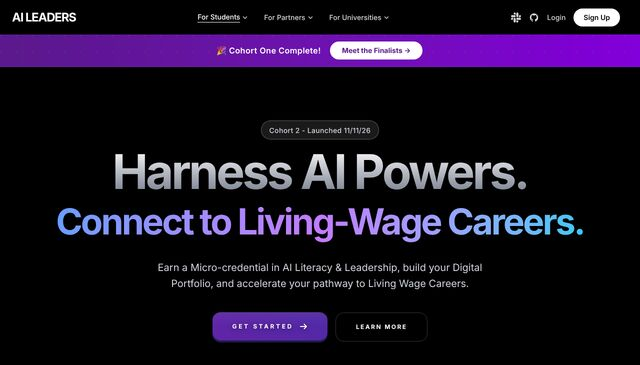
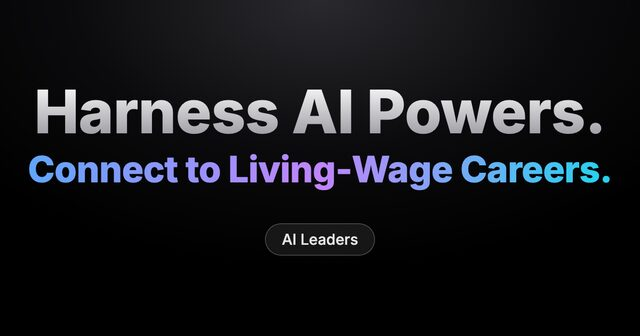
Use NOAI and AI Leaders share images as link previews
Preview boxes now match the 1200x630 share-image shape.

Claude-Session: https://claude.ai/code/session_01ReZKd3hTou39C6nnSfKhm1

diff --git a/index.html b/index.html
@@ -35,7 +35,7 @@
   <link rel="me" href="https://x.com/bbertucc">
   <link rel="me" href="https://www.linkedin.com/in/blake1111">
   <link rel="me" href="https://bsky.app/profile/b3b.bio">
-  <link rel="stylesheet" href="style.css?v=pay3">
+  <link rel="stylesheet" href="style.css?v=og2">
 
   <script type="application/ld+json">
   {
@@ -111,7 +111,7 @@
       <ul class="link-list">
         <li class="link-item">
           <a class="link-item__preview" href="https://fest.philosophers.group/" tabindex="-1" aria-hidden="true">
-            <img src="assets/noai-festival.jpg" alt="" width="640" height="365" loading="lazy">
+            <img src="assets/noai-festival.jpg" alt="" width="640" height="336" loading="lazy">
           </a>
           <div class="link-item__info">
             <a class="link-item__link" href="https://fest.philosophers.group/" aria-describedby="link-desc-1">NOAI Festival <span aria-hidden="true">↗</span></a>
@@ -120,7 +120,7 @@
         </li>
         <li class="link-item">
           <a class="link-item__preview" href="https://ai-leaders.org/" tabindex="-1" aria-hidden="true">
-            <img src="assets/ai-leaders.jpg" alt="" width="640" height="365" loading="lazy">
+            <img src="assets/ai-leaders.jpg" alt="" width="640" height="336" loading="lazy">
           </a>
           <div class="link-item__info">
             <a class="link-item__link" href="https://ai-leaders.org/" aria-describedby="link-desc-2">AI Leaders <span aria-hidden="true">↗</span></a>
@@ -211,6 +211,6 @@
     </div>
   </dialog>
 
-  <script src="script.js?v=pay3" defer></script>
+  <script src="script.js?v=og2" defer></script>
 </body>
 </html>

diff --git a/404.html b/404.html
@@ -5,7 +5,7 @@
   <meta name="viewport" content="width=device-width, initial-scale=1">
   <title>Not found | Blake Bertuccelli-Booth</title>
   <link rel="icon" href="/assets/avatar.jpg">
-  <link rel="stylesheet" href="/style.css?v=pay3">
+  <link rel="stylesheet" href="/style.css?v=og2">
 </head>
 <body>
   <main id="main" class="profile">

diff --git a/style.css b/style.css
@@ -166,7 +166,7 @@ h1 {
 
 .link-item__preview {
   display: block;
-  aspect-ratio: 16 / 9;
+  aspect-ratio: 1200 / 630;
   background: #e1e6f5;
   overflow: hidden;
 }
